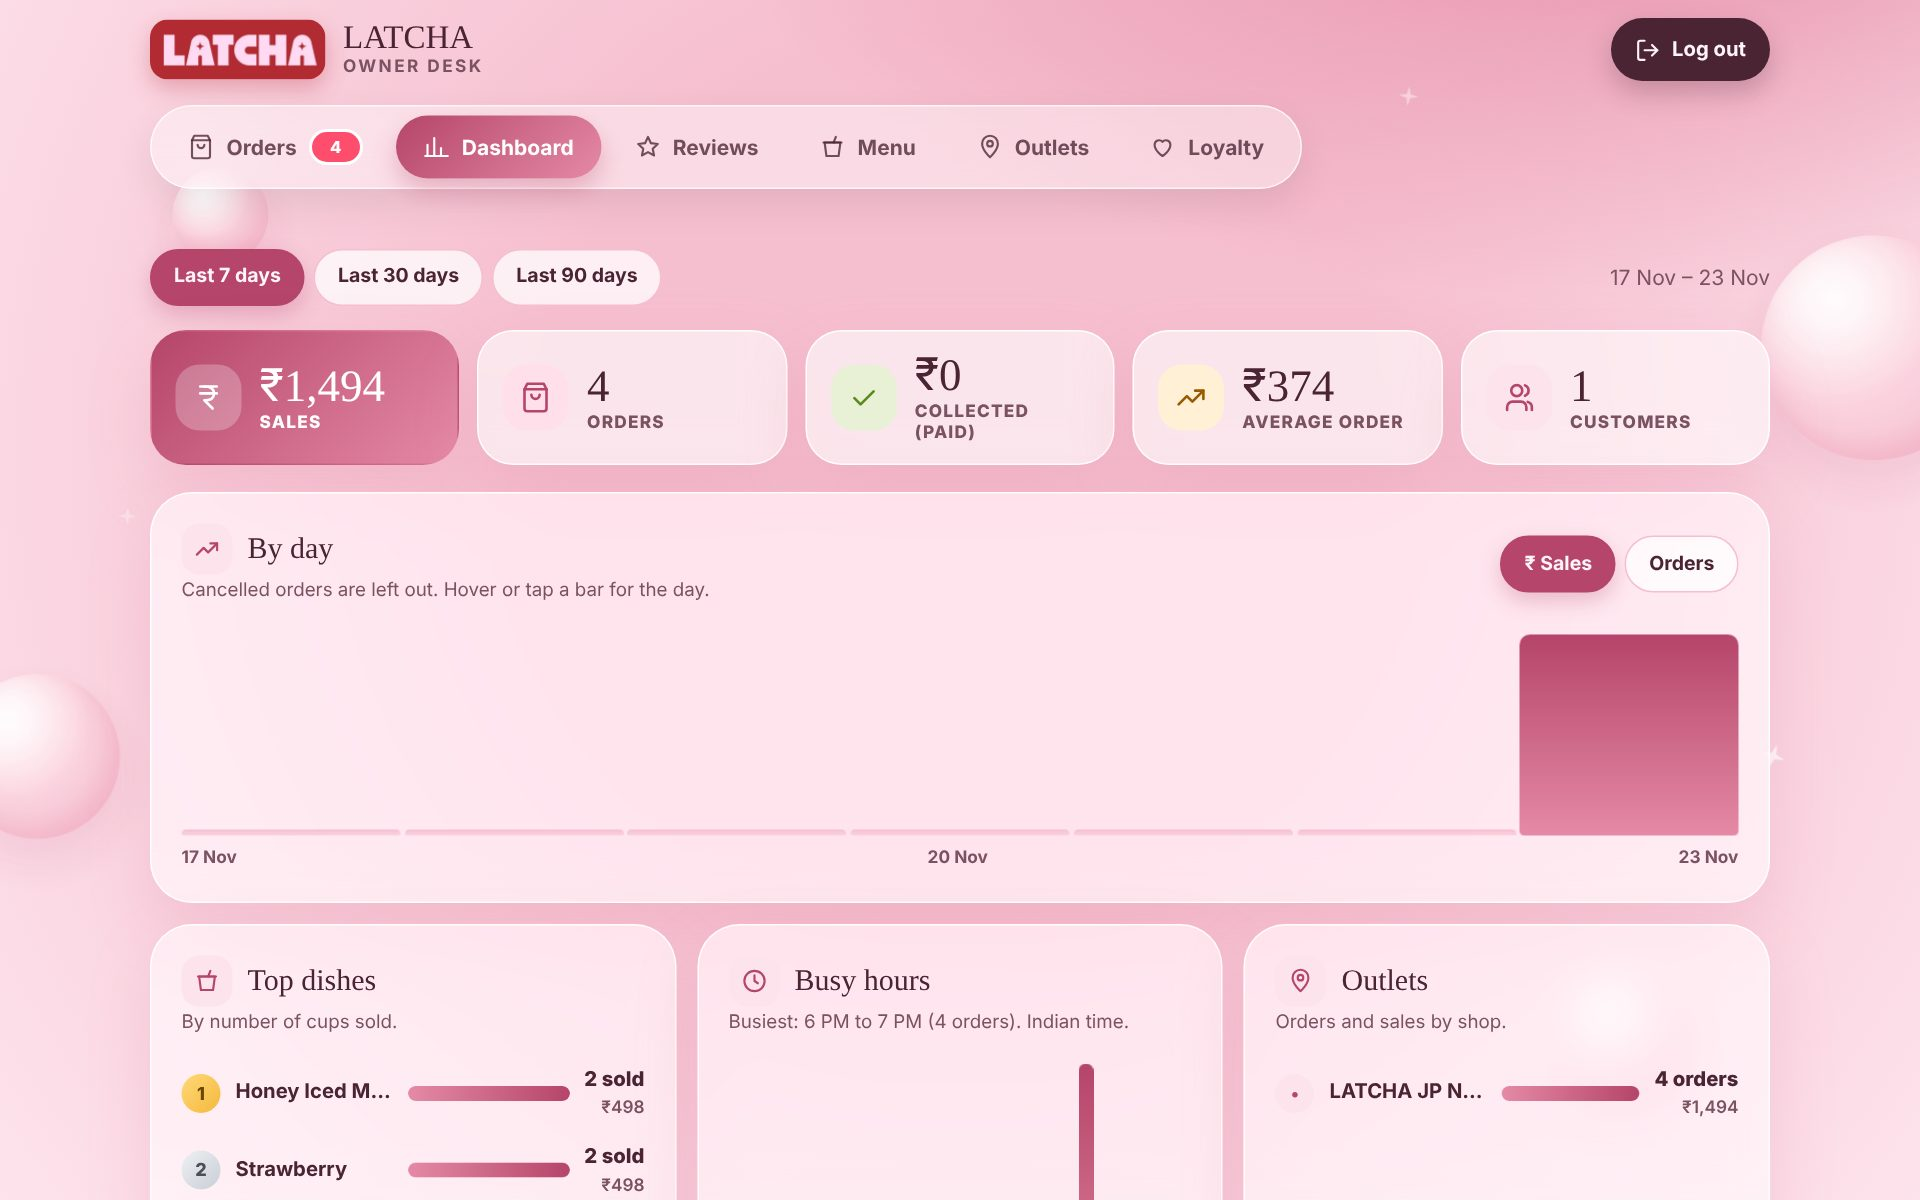
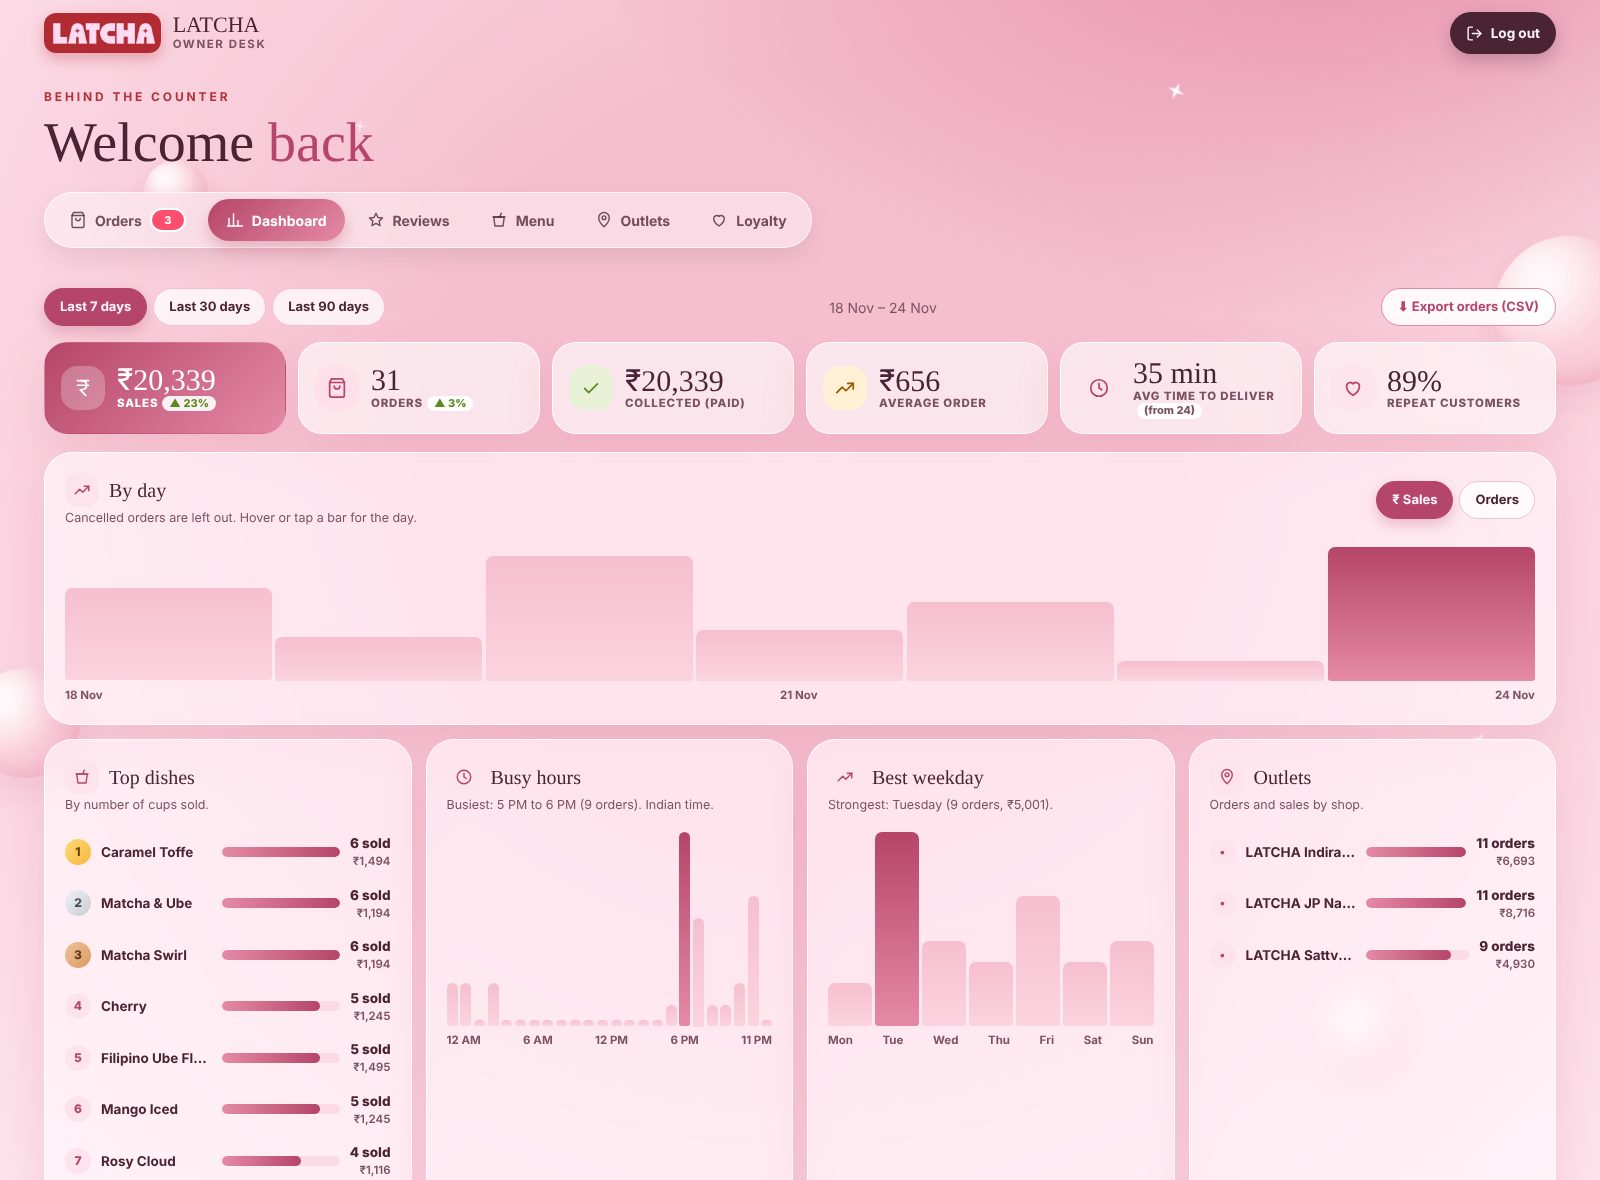
Refresh README with new screenshots

diff --git a/README.md b/README.md
@@ -4,8 +4,8 @@
 
 # LATCHA
 
-### A matcha café website that moves, swirls and actually takes orders.
-One scroll to fall in love. One form to order. One link for everything.
+### A matcha café website that moves, swirls and actually runs the shop.
+One scroll to fall in love. One form to order. One desk to run it all.
 
 *Whisked slow. Sipped soft.* 🍵
 
@@ -16,6 +16,7 @@ One scroll to fall in love. One form to order. One link for everything.
 ![PostgreSQL](https://img.shields.io/badge/Database-Neon_PostgreSQL-b5456a?style=for-the-badge&logo=postgresql&logoColor=white)
 ![Vercel](https://img.shields.io/badge/Deploy-Vercel-4a2433?style=for-the-badge&logo=vercel&logoColor=white)
 ![Tests](https://img.shields.io/badge/Tests-152_passing-5b8a1f?style=for-the-badge)
+![PWA](https://img.shields.io/badge/Installable-PWA-e58aa6?style=for-the-badge)
 
 <br>
 
@@ -24,9 +25,9 @@ One scroll to fall in love. One form to order. One link for everything.
 <br>
 
 **[🍵 Live site](https://latcha-website.vercel.app)** &nbsp;·&nbsp;
+**[🛍 Customer side](#-the-customer-side)** &nbsp;·&nbsp;
+**[🧑🍳 Owner side](#-the-owner-side)** &nbsp;·&nbsp;
 **[🚀 Run it](#-run-it-in-60-seconds)** &nbsp;·&nbsp;
-**[✨ Features](#-what-you-get)** &nbsp;·&nbsp;
-**[🍵 Latcha Club](#-latcha-club-accounts-and-points)** &nbsp;·&nbsp;
 **[🔌 API](#-the-api)** &nbsp;·&nbsp;
 **[🌐 Deploy](#-put-it-online-with-vercel)**
 
@@ -36,23 +37,17 @@ One scroll to fall in love. One form to order. One link for everything.
 
 <br>
 
-## 🌸 What you get
+## 🌸 The idea
 
-| | |
-|---|---|
-| 🥤 **A cup you can play with** | The hero cup floats and tilts with your mouse or phone. Cherries and leaves drift around it. One flavour tap turns the whole background from rose to matcha green. |
-| 🎬 **A scroll that tells a story** | Cups, the matcha tin on marble, then the pour. Smooth scroll, no jumps. |
-| 🛒 **A real shop behind the page** | 33 dishes, a cart, live order tracking with a share link, reviews and an owner screen, all backed by a database. |
-| 📍 **Outlets** | Pick JP Nagar or Sattva Knowledge Park. See "Open now" before ordering. |
-| 💳 **UPI payments** | Pay by UPI or at delivery. Demo mode today; Razorpay when you add keys. |
-| 🍵 **Latcha Club** | Customers make an account, collect points every day they visit, and turn **500 points into ₹50 off** at checkout. The owner can change every number. |
-| 📲 **Instant order alerts** | Every new order pings the owner's Telegram within a second, with a button that opens the owner desk. |
-| 📱 **Install as an app** | Add LATCHA to the phone home screen. It opens full-screen with its own icon. |
-| 💗 **Latcha Fam** | 8 sips = 1 free drink, counted from the customer's phone number. |
-| 🔎 **Find my matcha** | A 4-tap quiz that picks a drink from the live menu. |
-| 📊 **Owner desk** | A pink, phone-friendly screen for orders, dashboard, reviews, menu, outlets and loyalty. |
-| 🛡 **Safe by default** | Hashed passwords, spam trap, order limits, private tracking, signed payments, reviews held until approved. |
-| ✅ **Tested** | 152 automatic tests (API and real-browser) run on every push. |
+Most café sites are a menu in a PDF and a phone number. LATCHA is two products in one repo:
+
+| | For the customer | For the owner |
+|---|---|---|
+| **Feel** | A pink-to-green page where the cup floats, cherries drift and the scroll tells a story | A pink "owner desk" that opens like a shop door |
+| **Job** | Pick a drink, order, pay by UPI, watch it arrive, earn points | See every order live, move it along, call the customer, read the numbers |
+| **Where** | `/` | `/admin.html` |
+
+No framework on the front. A small FastAPI server behind it. One database. Everything installable on a phone.
 
 <br>
 
@@ -60,13 +55,25 @@ One scroll to fall in love. One form to order. One link for everything.
 
 | Time | Customer | Owner |
 |---|---|---|
-| ☀ Morning | Opens the site, collects the day's **Club points**, takes the **Find my matcha** quiz and adds the match to the cart | Opens `/admin.html` and sees overnight orders |
-| 🌤 Afternoon | Picks an outlet, taps **Use my points** for ₹50 off, pays by UPI and gets an order number | Gets the order in **Orders**, calls to confirm, taps **Confirm order** |
-| 🌙 Evening | Tracks the order until it says **Delivered**. A sip lands on the Fam card | Taps **Mark delivered**, marks a sold-out dish, checks the **Dashboard** |
+| ☀ Morning | Opens the site, collects the day's **Club points**, takes the **Find my matcha** quiz and adds the match to the cart | Opens the door at `/admin.html`. The sign flips **CLOSED → OPEN** and overnight orders are waiting |
+| 🌤 Afternoon | Picks an outlet, taps **Use my points** for ₹50 off, pays by UPI, gets an order number and a tracking link | A phone buzzes on Telegram. The order lands in the **New** lane. One tap: **Confirm order** |
+| 🌙 Evening | Watches **Received → Making → On the way → Delivered** update by itself | **Send out for delivery**, then **Mark delivered**. Checks the **Dashboard** and downloads the day as CSV |
 
 <br>
 
-## 📸 A quick look
+## 🛍 The customer side
+
+| | |
+|---|---|
+| 🥤 **A cup you can play with** | The hero cup floats and tilts with your mouse or phone. One flavour tap turns the whole background from rose to matcha green. |
+| 🎬 **A scroll that tells a story** | Cups, the matcha tin on marble, then the pour. Smooth scroll, no jumps. |
+| 🛒 **A real shop** | 33 dishes, a cart, outlets with "Open now", reviews held until approved. |
+| 💳 **UPI or cash** | Pay by UPI or at delivery. Demo mode today; Razorpay when you add keys. |
+| 🛵 **Live tracking** | Four steps, refreshes every 10 seconds, with a private share link. |
+| 🍵 **Latcha Club** | Account, daily visit points, birthday and comeback bonuses. **500 points = ₹50 off.** |
+| 💗 **Latcha Fam** | 8 sips = 1 free drink, counted from the phone number. |
+| 🔎 **Find my matcha** | A 4-tap quiz that picks a drink from the live menu. |
+| 📱 **Install as an app** | Add LATCHA to the home screen. Full-screen, own icon. |
 
 <p align="center">
 <img src="docs/preview-matcha.jpg" alt="Matcha Swirl flavour with the green background" width="49%">
@@ -77,14 +84,49 @@ One scroll to fall in love. One form to order. One link for everything.
 <img src="docs/preview-float.jpg" alt="The build-your-own float section" width="49%">
 </p>
 <p align="center">
-<img src="docs/preview-fam.jpg" alt="The LATCHA fam social section with the Instagram card and photo tiles" width="70%">
+<img src="docs/shot-track.jpg" alt="Live order tracking on a phone: four steps, status message and share link" width="30%">
+<img src="docs/shot-club.jpg" alt="Latcha Club window on a phone: points card and history" width="30%">
+<img src="docs/shot-quiz.jpg" alt="The Find my matcha quiz" width="37%">
+</p>
+<p align="center"><sub>Left to right: live tracking, the Club window, the matcha quiz. Preview pictures show the page before the 3D cherries load; on the live site they are real 3D cherries.</sub></p>
+
+<br>
+
+## 🧑🍳 The owner side
+
+| | |
+|---|---|
+| 🔑 **"Open the shop" login** | A little LATCHA shopfront with a swinging CLOSED sign that flips to OPEN. Greeting follows Indian time. |
+| ▦ **Order board** | Three lanes on a computer: New, Making, On the way. List view on phones. |
+| ⏱ **Wait colours** | Green under 10 min, amber from 10, red from 20. A late order cannot hide. |
+| 📞 **One-tap contact** | Call, WhatsApp (message ready) and Map on every order. |
+| 📊 **Dashboard** | Sales, orders, average delivery time, repeat customers, busiest hour, best weekday. |
+| ⬇ **CSV export** | Any period up to a year, opens in Excel or Sheets, formula-safe. |
+| 📲 **Instant alerts** | Every new order pings Telegram within a second. |
+| 🍽 **Menu, outlets, loyalty** | Edit dishes and prices, set opening hours and sold-out lists, change every Club number. |
+| 🖥 **Full-width layout** | Uses the whole monitor, not a thin strip in the middle. |
+
+<p align="center">
+<img src="docs/shot-login.jpg" alt="Owner login: a LATCHA shopfront with a CLOSED sign" width="100%">
 </p>
 <p align="center">
-<img src="docs/shot-club.jpg" alt="Latcha Club account window on a phone: points card, progress bar and history" width="32%">
-<img src="docs/shot-loyalty.jpg" alt="Owner desk Loyalty tab with editable points rules" width="66%">
+<img src="docs/shot-board.jpg" alt="Owner order board with New, Making and On the way lanes, wait chips and contact buttons (sample data)" width="100%">
 </p>
-<p align="center"><sub>Left: a customer's Latcha Club window on a phone. Right: the owner changing the points rules.</sub></p>
-<p align="center"><sub>Preview pictures show the page before the 3D cherries load. On the live site they are real 3D cherries.</sub></p>
+<p align="center">
+<img src="docs/shot-dashboard.jpg" alt="Owner dashboard: sales, orders, collected, average order, time to deliver, repeat customers and charts (sample data)" width="100%">
+</p>
+<p align="center"><sub>Owner desk with sample data: the login door, the live order board and the dashboard.</sub></p>
+
+<br>
+
+## 🛡 Built to be trusted
+
+- **Passwords** are hashed. The owner login uses a signed token.
+- **Orders** are limited per phone, with a spam trap. Prices are worked out on the server, never trusted from the browser.
+- **Tracking links** carry a secret code made from the server key. A wrong code and a missing order look identical.
+- **Payments** are signed (Razorpay) and checked on the server.
+- **Reviews** wait for the owner before they show.
+- **Tests:** 152 automatic tests (108 API, 44 real-browser) run on every push, on a throw-away database. They never touch the live site.
 
 <br>
 
@@ -98,9 +140,9 @@ python scripts/init_db.py
 python -m uvicorn app.main:app --port 8000 --reload
 ```
 
-Open **http://localhost:8000**. No database account needed: it uses a small local file (`dev.db`). To try the owner screen, copy `.env.example` to `.env` and fill in `ADMIN_PASSWORD_HASH` and `JWT_SECRET` (see [Connect Neon](#-connect-neon-the-real-database)).
+Open **http://localhost:8000**. No database account needed: it uses a small local file (`dev.db`). To try the owner screen, copy `.env.example` to `.env` and fill in `ADMIN_PASSWORD_HASH` and `JWT_SECRET` (see [Connect Neon](#-connect-neon-the-real-database)), then open **/admin.html**.
 
-Run the tests any time: `python -m pytest -q` (browser tests need `playwright install chromium` once). They use a throw-away database, never your live site.
+Run the tests any time: `python -m pytest -q` (browser tests need `playwright install chromium` once).
 
 <br>
 
@@ -216,7 +258,7 @@ A 4-tap quiz (format, flavour, sweetness, light or treat) that picks one dish an
 
 `/admin.html` is a pink, glassy desk that matches the shop. It greets the owner with a "Welcome back" line that fades away, and on a phone the tabs become a **bottom app bar** so a thumb reaches everything. It updates by itself every 12 seconds. A new order shows a banner, the card flashes, and the tab title shows `(2) LATCHA Owner`. Press **Sound off** once to turn on a soft beep. Tabs: Orders, Dashboard, Reviews, Menu, Outlets, **Loyalty** (Club rules, customers and Fam sips).
 
-<p align="center"><img src="docs/shot-orders.jpg" alt="Owner screen: live orders with tiles and one-tap buttons" width="85%"></p>
+<p align="center"><img src="docs/shot-board.jpg" alt="Owner screen: live order board" width="85%"></p>
 
 - Tiles: new, being made, waiting for payment, today's orders, rupees paid today (Indian time, cancelled orders not counted).
 - Filters: Active, Delivered, Cancelled, All, plus an outlet filter.
@@ -250,7 +292,6 @@ After ordering, **Track this order** shows four steps: **Received → Making →
 
 Admin → **Dashboard** shows the last 1, 7, 30 or 90 days. Everything is counted from real orders; nothing extra is stored.
 
-<p align="center"><img src="docs/shot-dashboard.jpg" alt="Owner dashboard with sales, orders, collected, average order and a sales-by-day chart (sample data)" width="85%"></p>
 
 - Top row: sales, orders (each compared with the period before), money collected, average order, **average time to deliver** (placed to delivered), **repeat customers** (% who had ordered before).
 - Charts: sales or orders by day, top dishes, busiest hours, **best weekday**, outlets, how people pay, new and returning customers, Fam free drinks given.
